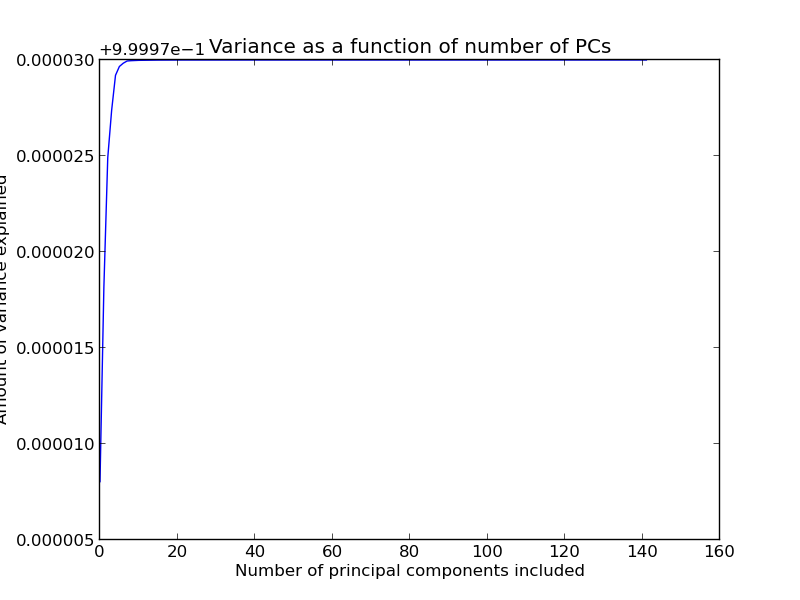
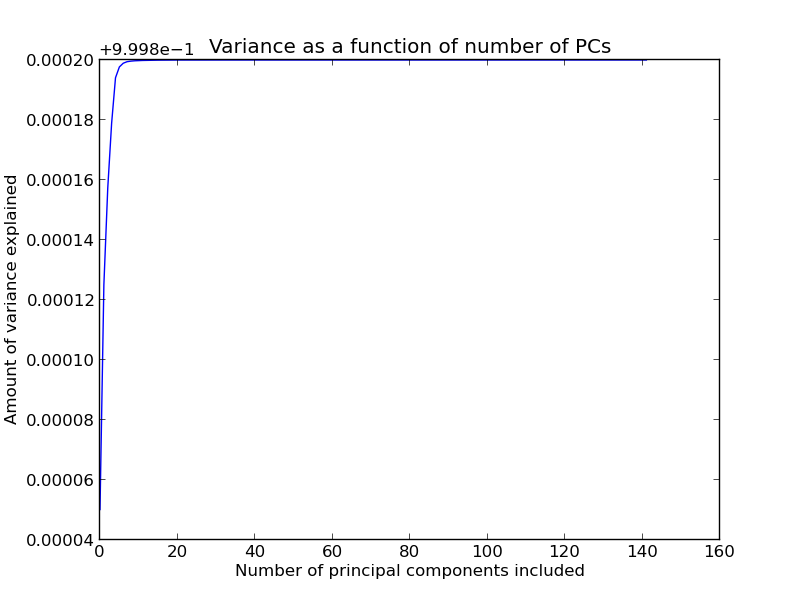
PCA OLI

diff --git a/oli.py b/oli.py
@@ -15,15 +15,19 @@ FILL_MEAN = 3 # fill missing with mean
 
 
 
-
+titlestr=''
 # FUNNY CONSTANTS HAHA
 DISCARD     = 5 # discard first DISCARD columns
 INVALID_FIX = ELIM_COMM
 NORMALIZE   = False
 STANDARDIZE = False
+PRENORM     = True
+REMOVE_N = 5
 
+
+filestr = ''
 # read data from comma-separated datafile
-datafile = open('data/communities.data')
+datafile = open('data/communities_norm.data')
 namefile = open('data/communities.names')
 datareader = csv.reader(datafile, delimiter=',', quotechar='|')
 namereader = csv.reader(namefile, delimiter=',', quotechar='|')
@@ -42,16 +46,31 @@ X_mean = X.mean(0)[np.newaxis,:] # every value is the attributes mean
 
 # preprocesses X
 if INVALID_FIX is ELIM_COMM:
-    # removes data objects with missing values
-    X = ma.compress_rows(X)
+	# removes data objects with missing values
+	X = ma.compress_rows(X)
+	titlestr += "Rows with missings removed. "
+	filestr += 'rows-with-missings-removed_'
+
 elif INVALID_FIX is ELIM_ATTR:
-    # removes attributes with missing values
-    X = ma.compress_cols(X)
+	# removes attributes with missing values
+	X = ma.compress_cols(X)
+	titlestr += "Attributes with missings removed. "
+	filestr += 'attr-with-missings-removed_'
 elif INVALID_FIX is FILL_MEAN:
-    # takes mean where masked value otherwise
-    X = np.where(X.mask, X_mean, X)
+	# takes mean where masked value otherwise
+	X = np.where(X.mask, X_mean, X)
+	titlestr += "Missings filled with means. "
+	filestr += "missings-filled-w-means_"
 
 X_mean = X.mean(0)[np.newaxis,:] # recalculate mean
+
+removes = [4,16,7,210,247]
+
+for i in range(REMOVE_N):
+	X = np.delete(X, (removes[i]), axis=0)
+
+titlestr += str(REMOVE_N) + " biggest outliers removed"
+filestr += str(REMOVE_N)+"-biggest-outliers-removed_"
 
 #X = np.delete(X, (119), axis=0) # remove row
 #X = np.delete(X, (4), axis=0) # remove row
@@ -77,15 +96,21 @@ X_mean = X.mean(0)[np.newaxis,:] # recalculate mean
 X_unNorm = np.copy(X);
 X_unNorm_mean = np.copy(X_mean)
 if NORMALIZE:
+    titlestr += 'Normalized. '
+    filestr += 'norm_'
     attributeSums = X.max(axis=1)
     X = X / attributeSums[:, np.newaxis] # normalized
     X_mean = X.mean(0)[np.newaxis,:] # mean along attributes, all valuesa are attr-mean
 
 if STANDARDIZE:
+    titlestr += 'standardized. '
+    filestr += 'standrd_'
     X = (X - X_mean) / std(X)
     X_mean = X.mean(0)[np.newaxis,:] # mean along attributes, all valuesa are attr-mean
 
-
+if PRENORM:
+    titlestr += 'prenormed. '
+    filestr  += 'prenormed_'
 
 
 ## PeeCeeAaa
@@ -108,16 +133,16 @@ i2 = (U[2,:].argmax())
 
 
 
-for i in range(M):
-	for j in range(i+1,M):
-		figure()
-		scatter(X[:,i], X[:,j])
+#for i in range(M):
+#	for j in range(i+1,M):
+#		figure()
+#		scatter(X[:,i], X[:,j])
 
-		tt = attributeNames[j] + " as a function of " + attributeNames[i]
-		title(tt)
-		xlabel(attributeNames[i])
-		ylabel(attributeNames[j])
-		savefig("correlations/"+attributeNames[j] + "-as-func-of-" + attributeNames[i]+".png")
+#		tt = attributeNames[j] + " as a function of " + attributeNames[i]
+#		title(tt)
+#		xlabel(attributeNames[i])
+#		ylabel(attributeNames[j])
+#		savefig("correlations/"+attributeNames[j] + "-as-func-of-" + attributeNames[i]+".png")
 
 
 
@@ -134,7 +159,7 @@ ax.set_title("Variance as a function of number of PCs")
 ax.set_xlabel("Number of principal components included")
 ax.set_ylabel("Amount of variance explained")
 
-fig_pca.savefig('pca.png')
+fig_pca.savefig('variance.png')
 
 # projects the centered data onto principal component space, Z
 V = mat(V).T
@@ -170,19 +195,12 @@ zmin = (X_unNorm[:,-1].min())
 cm = plt.cm.hot
 
 fig = plt.figure()
-ax1 = fig.add_subplot(2,1,1)
-ax2 = fig.add_subplot(2,1,2)
+ax1 = fig.add_subplot(1,1,1)
 ax1.scatter(x_u,y_u,c=z, label="lol", cmap=cm, vmin=zmin, vmax=zmax)
-ax1.set_title("Communities in PCA space, color is violent crime per capita")
+ax1.set_title("PCA: " + titlestr)
 ax1.set_xlabel("PCA #"+str(i))
 ax1.set_ylabel("PCA #"+str(j))
-
-
-ax2.scatter(x,y,c=zn, label="lol", cmap=cm)
-ax2.set_title("Communities in PCA space, color is NORM violent crime per capita")
-ax2.set_xlabel("PCA #"+str(i))
-ax2.set_ylabel("PCA #"+str(j))
-
+savefig("pca/"+filestr+".png")
 
 plt.show()
 
